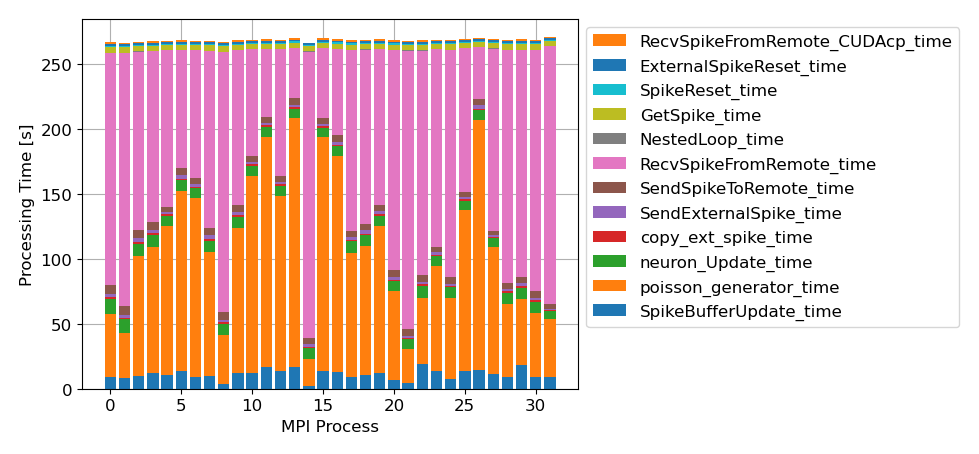
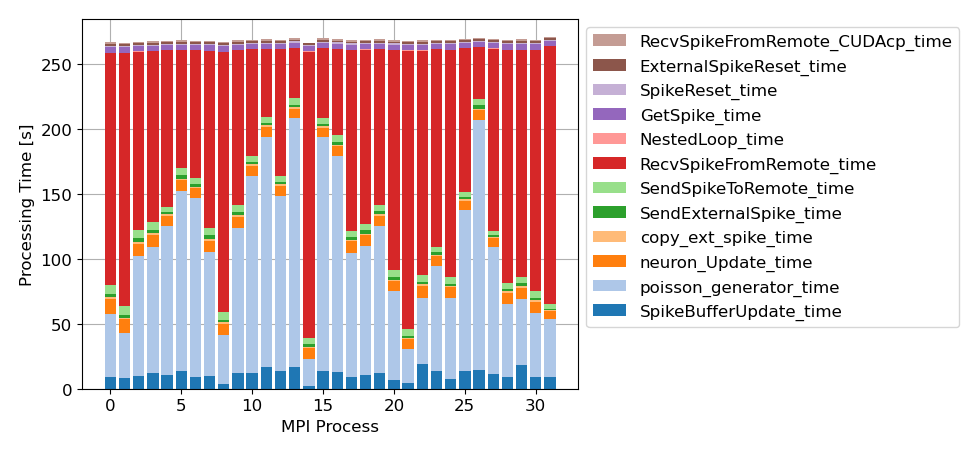
analysis neuron, synapse

Changed region(s): [[0.0919, 0.0617, 0.6435, 0.8634]]

diff --git a/ngpu_multi_area_model_simulation/analysis/neuron_synapse/persynapse.py b/ngpu_multi_area_model_simulation/analysis/neuron_synapse/persynapse.py
@@ -4,7 +4,7 @@ from collections import defaultdict
 import numpy as np
 import matplotlib.pyplot as plt
 
-synapse_json = "../../multi-area-model-ngpu/synapse_full.json"
+synapse_json = "synapse_full.json"
 
 with open(synapse_json) as f:
     synapse = json.load(f)
@@ -17,10 +17,14 @@ for target in synapse:
             for spop in synapse[target][tpop][source]:
                 num = synapse[target][tpop][source][spop]
                 num_target_synapse[target] += num
-                num_source_synapse[source] += num
+                if source != "external":
+                    num_source_synapse[source] += num
 
-# sum_synapse = np.sum(y)
-# print("sum_synapse:", sum_synapse) # 37 x 10^9
+print(num_target_synapse)
+print(num_source_synapse)
+
+sum_synapse = np.sum(list(num_source_synapse.values()))
+print("sum_synapse:", sum_synapse) # 37 x 10^9
 
 plt.rcParams["axes.axisbelow"] = True
 plt.rcParams["font.size"] = 12

diff --git a/ngpu_multi_area_model_simulation/analysis/each_proc/analysis.py b/ngpu_multi_area_model_simulation/analysis/each_proc/analysis.py
@@ -2,10 +2,11 @@ import re
 from collections import defaultdict
 
 import numpy as np
+import matplotlib
 import matplotlib.pyplot as plt
 
-sim_label="b64ab6b32780d5131c13e8173da41272"
-result_file = f"../../multi-area-model-ngpu/{sim_label}/result.txt"
+sim_label="simulated_8nodes_4gpus_1.00scale"
+result_file = f"../../multi-area-model-ngpu/simulation_result/{sim_label}/result.txt"
 
 time_label = [
 	'SpikeBufferUpdate_time',
@@ -90,9 +91,11 @@ plt.xlabel('MPI Process')
 plt.ylabel('Processing Time [s]')
 bottom = np.array([0.0] * procs)
 x = [i for i in range(procs)]
+idx = 0
 for lab in time_label:
-	plt.bar(x, y[lab], bottom=bottom, align='center', label=lab)
+	plt.bar(x, y[lab], bottom=bottom, align='center', label=lab, color=matplotlib.cm.tab20(idx))
 	bottom += np.array(y[lab])
+	idx += 1
 
 ax=plt.gca()
 handles, labels = ax.get_legend_handles_labels()

diff --git a/ngpu_multi_area_model_simulation/analysis/neuron_synapse/perneuron.py b/ngpu_multi_area_model_simulation/analysis/neuron_synapse/perneuron.py
@@ -4,7 +4,7 @@ from collections import defaultdict
 import numpy as np
 import matplotlib.pyplot as plt
 
-sim_label = "8nodes_4gpus_1.00scale"
+sim_label = "simulated_8nodes_4gpus_1.00scale"
 result_file = f"../../multi-area-model-ngpu/simulation_result/{sim_label}/result.txt"
 
 procs = 32
